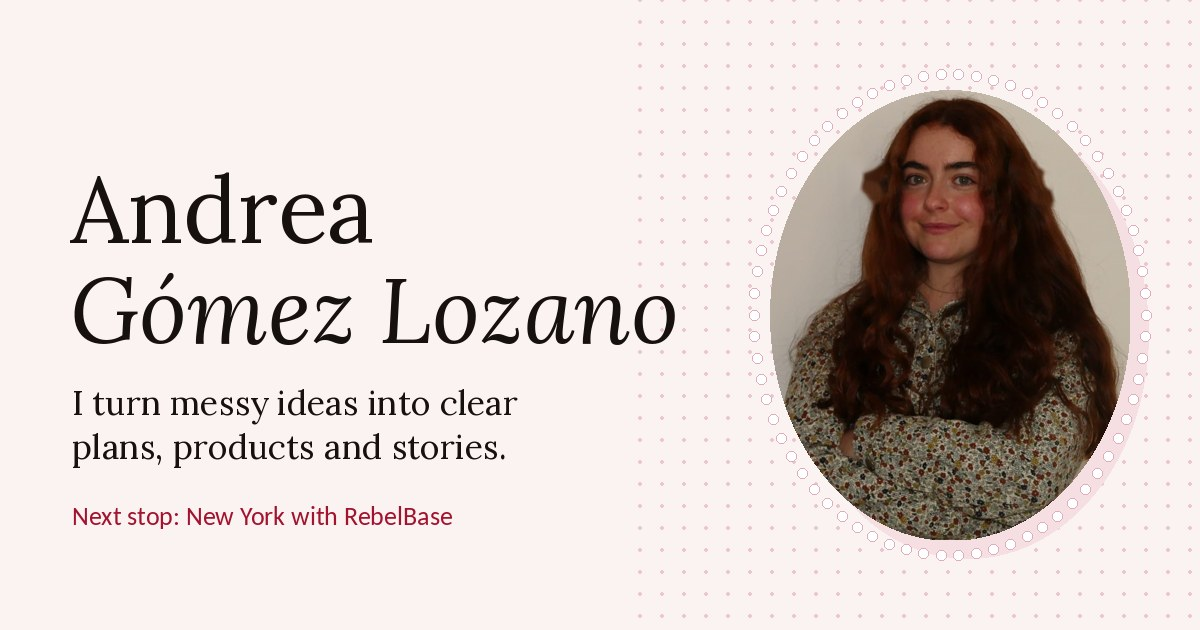
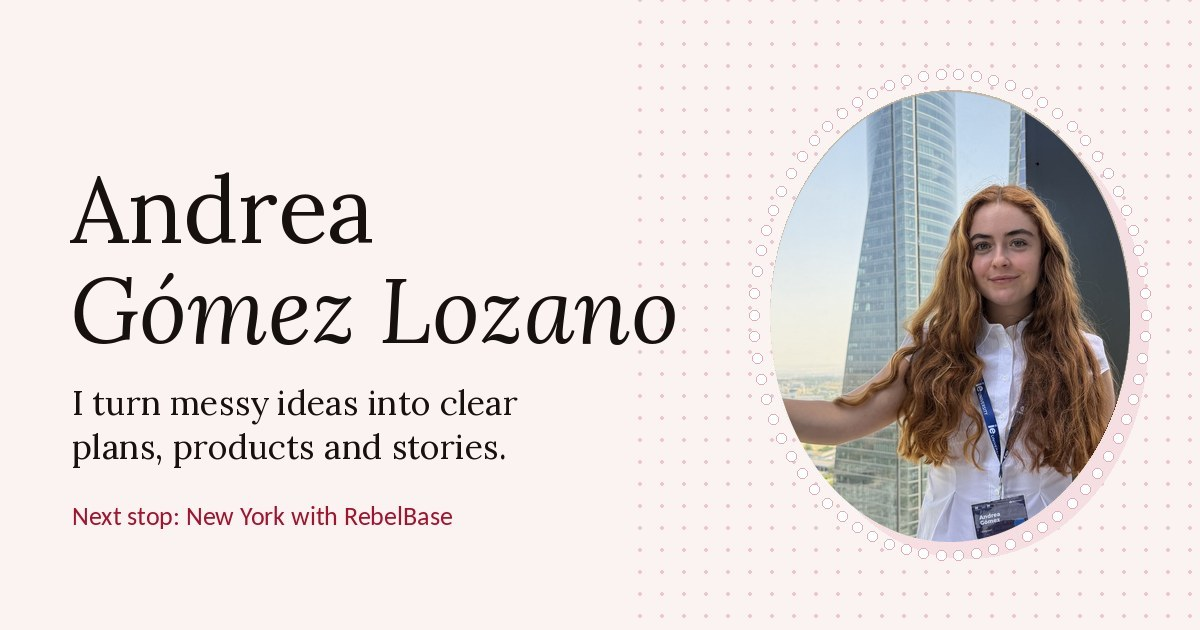
Nueva foto de portada (Madrid, IE) y tarjeta para compartir
Claude-Session: https://claude.ai/code/session_01JBUo2zYudCZGC9j7oiQJF4

Changed region(s): [[0.6167, 0.1206, 0.9558, 0.8746]]

diff --git a/index.html b/index.html
@@ -91,7 +91,7 @@ header.top.scrolled{border-bottom-color:var(--line)}
 .btn.ghost:hover{background:var(--blush)}
 .btn.small{padding:8px 15px;font-size:.88rem}
 .portrait{position:relative;aspect-ratio:4/5;border-radius:999px 999px 26px 26px;overflow:hidden;background:var(--blush);box-shadow:0 40px 70px -40px rgba(163,18,46,.45);transform-style:preserve-3d;transition:transform .5s cubic-bezier(.2,.7,.2,1);animation:fadeup 1s .2s both}
-.portrait img{width:100%;height:100%;object-fit:cover;object-position:70% 18%;transform:scale(1.06);transition:transform .5s cubic-bezier(.2,.7,.2,1)}
+.portrait img{width:100%;height:100%;object-fit:cover;object-position:50% 30%;transform:scale(1.06);transition:transform .5s cubic-bezier(.2,.7,.2,1)}
 @media (max-width:900px){.hero .wrap{grid-template-columns:1fr}.portrait{max-width:380px;width:100%;margin:0 auto}}
 
 /* work grid */
@@ -366,7 +366,7 @@ img{height:auto}
       </div>
     </div>
     <div class="portrait-wrap"><svg class="pearl-ring" viewBox="0 0 440 550" preserveAspectRatio="none" aria-hidden="true"><ellipse cx="220" cy="275" rx="212" ry="267" fill="none" stroke="#fff" stroke-width="10" stroke-linecap="round" stroke-dasharray="0 17"/></svg><figure class="portrait" id="portrait" style="margin:0">
-      <img src="assets/img/hero.jpg" alt="Andrea Gómez Lozano at UGR Emprendedora" width="920" height="1035">
+      <img src="assets/img/hero.jpg" alt="Andrea Gómez Lozano" width="920" height="1150">
       </figure><span class="sig" aria-hidden="true">Andrea</span></div>
   </div>
 </section>
